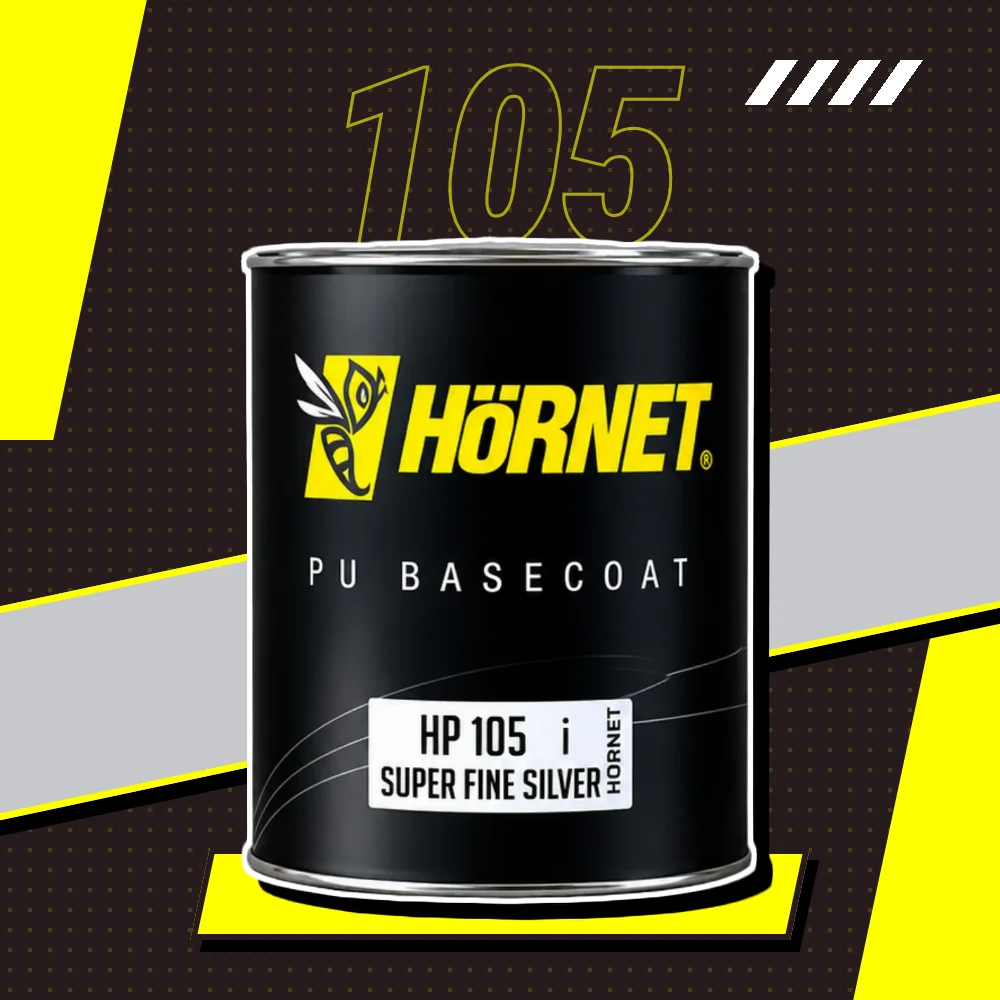
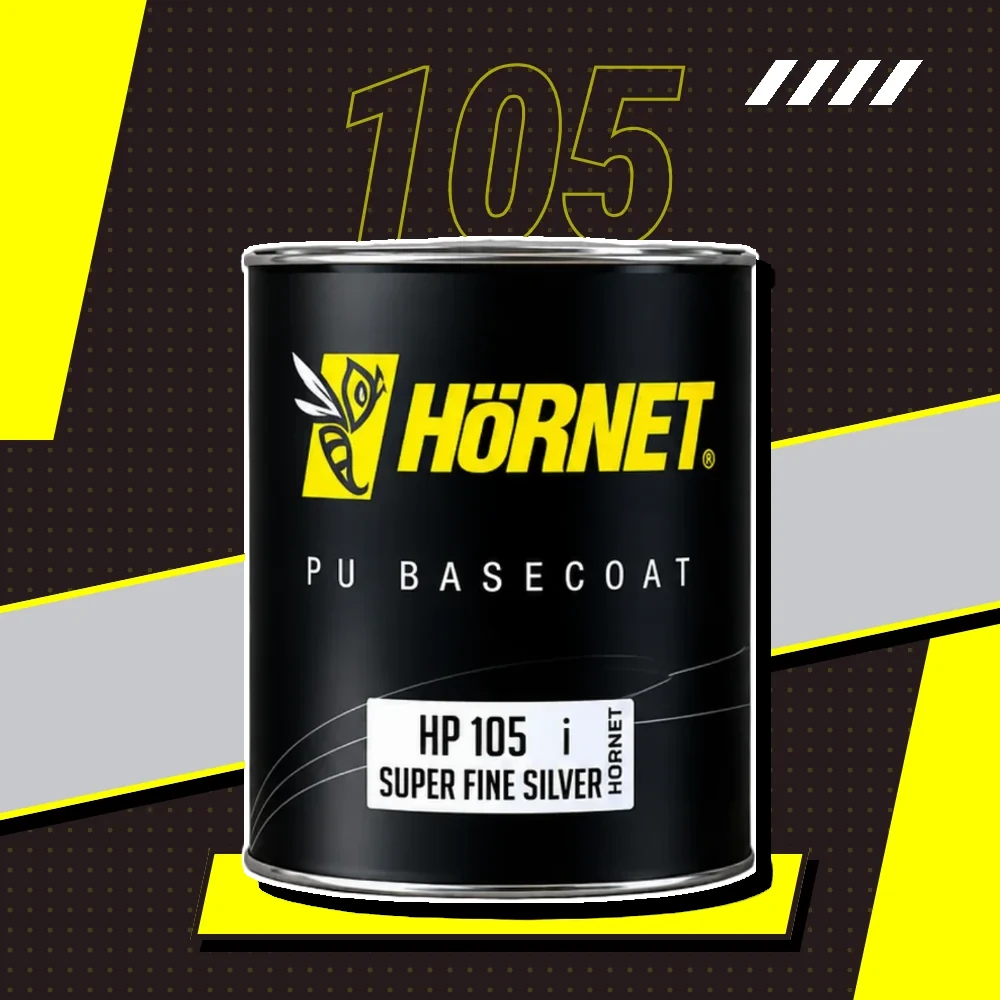
[development][1.24.1] same can size for every Cat PU color
The Cat PU cans were cut from separate studio shots, so each color's can
came out a few pixels wider or taller (501-511 x 658-667 px) and jumped in
size when switching colors on the detail page. Every PU can is now scaled
to one outline box, bottom-centered on the plinth, with its white outline
and hard shadow redrawn. The Cat NC cans already matched.

Claude-Session: https://claude.ai/code/session_01P7H63vv6HAtg1gbggxpW76

diff --git a/CLAUDE.md b/CLAUDE.md
@@ -4,7 +4,7 @@ This file provides guidance to Claude Code (claude.ai/code) when working with co
 
 ## Project
 
-Website for the **Dumons Coating – Hornet lineup** (a sub-product of Dumons Coating), served at `https://hornet.dumonscoating.com/home`. The main Dumons Coating site is a separate Vue project at `C:\Users\hanif\Documents\dumons-netlify` (`https://dumonscoating.com/home`); Hornet uses Roboto Condensed Black Italic for display text (headings, buttons, tags, stickers; closest match to the logo wordmark) and Helvetica (`"Helvetica Neue", Helvetica, Arial, sans-serif`) for body text. The display font is self-hosted (`public/assets/fonts/roboto-condensed-italic-latin.woff2`: variable weight, italic only, latin subset), declared with `@font-face` + preload in `render.tsx`'s `<head>` (not in CSS, so css-loader doesn't try to bundle the url), so every `--font-display` use must also set `font-style: italic`. Brand names are written with umlauts in visible text, "Hörnet" and "Dümons" (URLs, email and social handles stay plain `dumons...`). The site is in Indonesian (`lang="id"`): a landing page (`/home`) and the product catalog (`/produk`, `src/pages/products`: page heading from `page` in `products.json`, every product as a card (1/2/3 columns, a row with fewer products than columns is centered rather than left with a hole), a "Bingung pilih?" band with WhatsApp/Shopee) with a detail page per product (`/produk/<slug>`, `src/pages/product-detail`, prerendered via `getStaticPaths`, unknown slugs render NotFound: square photo (pinned while scrolling from `--large`; stacked below it, capped to fit the screen, and a tap on a swatch scrolls it fully into view when it's cut off, while keyboard picks never scroll) with code sticker and a chip naming the chosen color, a color picker (`colors`: radio buttons drawn as skewed swatches; the chosen color's `image`, else the product's, else a placeholder filled with its `hex`), power meters, "Pesan via WhatsApp" prefilled with product + color, Shopee, then "Produk lainnya"; the picker is hidden when `colors` is empty). Every Shell page has the same site-wide header nav (`SITE_NAV` in `src/components/shell/nav.ts`): each item is a page (`path`, e.g. Produk -> `/produk`, highlighted on it and on pages under it, `aria-current` on the page itself) or a home section (`path` + `section`); Shell renders a section on the current page as a plain `#id` anchor (native smooth scroll) and everything else as a router `Link` (`/home#faq` from another page), home sections hidden while empty drop out, and there is a "Menu" panel below `--large`. Router links don't scroll on their own, so `ScrollToLocation` in `App.tsx` jumps to the top (or to the `#section`) after PUSH/REPLACE navigation and leaves POP (back/forward, first load, plain anchors) to the browser. Home has: a floating WhatsApp button (`src/components/whatsapp-float`: shown after the first screen, hidden while `#kontak` is in view), hero (`hero.lineup`: the transparent cutout of the whole can lineup, `public/assets/hornet-lineup.webp` at the source resolution plus `-800`/`-1200` copies listed in `smaller` and served as `srcSet`, die-cut on a dark poster-style stage with yellow wedges, white slashes, an outlined "HÖRNET" and a yellow plinth, plus a sticker; without `lineup` it falls back to the product named in `hero.productCode` (a code from `products.json`): its `image`, or a hatched placeholder with the hornet mark until set; "Lihat produk" button scrolls to `#produk`), features, trust numbers (`stats`, ink band; PLACEHOLDER figures that must be replaced with real ones before launch; each counts up once on first view via `src/components/count-up`, which server-renders the final value; section hidden when empty), promotions (`promotions`: one poster image per promo, each linking to WhatsApp with its `alt` prefilled; placeholders in `public/assets/promos/` until the real posters exist; any count and any orientation via justified rows sized from each image's `width`/`height` (layout ratio clamped to 9:16..2.2:1, extremes shown whole on a hatched background), never cropped; section hidden when empty; opened by a scrolling ticker and the mascot), highlighted products (`featuredProducts`: exactly two codes, side by side from `--medium`, stacked on phones, then a "Lihat semua produk" button to `/produk`; cards are `src/components/product-card`, shared with `/produk`: a square image canvas (hatched hornet-mark placeholder until `image` is set), code sticker, 1..5 power meters, and a "Lihat detail" link to its detail page; the first product is the real Cat NC (code `NC`, slug `cat-nc`: one product whose 11 `colors` are its models, HS 470 Super White to HS 301 Ferrari Red, each with its own can photo in `public/assets/products/nc/`: the can cut out of its studio shot and rendered 1000x1000 on the dark poster-style stage (yellow wedges, halftone, outlined model number, a skewed band in the paint color, yellow plinth); `cutout.webp` is the transparent HS 470 can), the second is the real Cat PU (code `PU`, slug `cat-pu`: PU basecoat, 25 `colors`: the whites and blacks (HP 912/914/921/922) first, then by code: HP 105..112 silvers, 221..225 yellows, 332..345 reds, 434 orange, 553..557 blues and violet, 661 green, rendered the same way in `public/assets/products/pu/`, `cutout.webp` is the HP 914 can)), customer reviews (`reviews`: quote, name, company, city, year, optional `photo` (initials until set) and `rating` (1..5 stars); any count, placeholders for now; section hidden when empty; carousel in `src/components/reviews`: one per slide on a scroll-snap track (native swipe), arrows + dots (a button/dot/autoplay move sets the index once and scroll events are ignored until the track arrives, so the counter never flickers; a one-slide move scrolls smoothly, a longer jump such as the wrap from last to first fades out, jumps and fades back in), autoplay every 7s that any manual switch stops for 3 minutes, off under `prefers-reduced-motion`; the band is dressed with halftone, a giant outlined quote, twinkling sparkles, chips and a spinning rubber stamp, and each card has a paper stack behind it and a numbered tape strip), results gallery (`results`: surface label, caption, the product code used and an optional `photo` of the coated surface (cropped to fill, hatched placeholder until set); the product's transparent `cutout` (hornet mark until set) stands die-cut on each photo; bento grid with the first tile big (2x2 on three columns, a 16:9 banner on two, plain on phones); the leftover cells of the last row get free-floating ornaments, no tile around them (mascot asking "Giliran mobilmu?", a "Kilau!" sticker on halftone, sparkles, chips), counted per layout in `Home.tsx`, so any count looks complete; section hidden when empty), partner workshops (`partners`, `#mitra`, yellow band: name, city, address, optional `mapsUrl`/`whatsappUrl`; PLACEHOLDERS for now; `src/components/partners` adds city filter chips and shows 9 until "Lihat semua"; "Jadi mitra" button opens WhatsApp with a prefilled message; section hidden when empty), FAQ (`faqs`, `#faq`: questions about the Hörnet line as a whole, since usage steps belong on each product's future detail page; answers marked PLACEHOLDER need real facts; native `<details>` accordion, plus a schema.org `FAQPage` JSON-LD script built from the same list; section hidden when empty), contact CTA (WhatsApp button, "Beli di Shopee" button, and WhatsApp/Shopee/email rows), footer (logo, Instagram and main-site links, copyright). Editable content lives in two JSON files (their `_petunjuk` notes explain editing them, in Indonesian); keep data out of the page components: `src/content/products.json` is the product catalog (`/produk` page copy and `products`, referenced everywhere else by `code`), `src/content/home.json` everything else on `/home` (contacts, hero copy, features, stats, ticker words, promotions, featured product codes, reviews, results, partners, FAQ). `src/content/index.ts` types both (`catalog`, `content`, `productByCode`) and validates them at load (unique codes and slugs, slug and `#rrggbb` formats; every code used in home.json must exist in the catalog): the build uses Babel (no type checking), so a missing/mistyped field throws while prerendering and fails the Netlify build with a message like `src/content/home.json: reviews #2.year harus berupa angka`. Feature icons are keys (`sparkle`/`drop`/`shield`/`spray`) mapped to SVG in `Home.tsx`. `/under-construction` is a standalone holding page (no Shell, English copy) and the only page on Netlify production deploys while `MAINTENANCE_MODE` is on (see Routing).
+Website for the **Dumons Coating – Hornet lineup** (a sub-product of Dumons Coating), served at `https://hornet.dumonscoating.com/home`. The main Dumons Coating site is a separate Vue project at `C:\Users\hanif\Documents\dumons-netlify` (`https://dumonscoating.com/home`); Hornet uses Roboto Condensed Black Italic for display text (headings, buttons, tags, stickers; closest match to the logo wordmark) and Helvetica (`"Helvetica Neue", Helvetica, Arial, sans-serif`) for body text. The display font is self-hosted (`public/assets/fonts/roboto-condensed-italic-latin.woff2`: variable weight, italic only, latin subset), declared with `@font-face` + preload in `render.tsx`'s `<head>` (not in CSS, so css-loader doesn't try to bundle the url), so every `--font-display` use must also set `font-style: italic`. Brand names are written with umlauts in visible text, "Hörnet" and "Dümons" (URLs, email and social handles stay plain `dumons...`). The site is in Indonesian (`lang="id"`): a landing page (`/home`) and the product catalog (`/produk`, `src/pages/products`: page heading from `page` in `products.json`, every product as a card (1/2/3 columns, a row with fewer products than columns is centered rather than left with a hole), a "Bingung pilih?" band with WhatsApp/Shopee) with a detail page per product (`/produk/<slug>`, `src/pages/product-detail`, prerendered via `getStaticPaths`, unknown slugs render NotFound: square photo (pinned while scrolling from `--large`; stacked below it, capped to fit the screen, and a tap on a swatch scrolls it fully into view when it's cut off, while keyboard picks never scroll) with code sticker and a chip naming the chosen color, a color picker (`colors`: radio buttons drawn as skewed swatches; the chosen color's `image`, else the product's, else a placeholder filled with its `hex`), power meters, "Pesan via WhatsApp" prefilled with product + color, Shopee, then "Produk lainnya"; the picker is hidden when `colors` is empty). Every Shell page has the same site-wide header nav (`SITE_NAV` in `src/components/shell/nav.ts`): each item is a page (`path`, e.g. Produk -> `/produk`, highlighted on it and on pages under it, `aria-current` on the page itself) or a home section (`path` + `section`); Shell renders a section on the current page as a plain `#id` anchor (native smooth scroll) and everything else as a router `Link` (`/home#faq` from another page), home sections hidden while empty drop out, and there is a "Menu" panel below `--large`. Router links don't scroll on their own, so `ScrollToLocation` in `App.tsx` jumps to the top (or to the `#section`) after PUSH/REPLACE navigation and leaves POP (back/forward, first load, plain anchors) to the browser. Home has: a floating WhatsApp button (`src/components/whatsapp-float`: shown after the first screen, hidden while `#kontak` is in view), hero (`hero.lineup`: the transparent cutout of the whole can lineup, `public/assets/hornet-lineup.webp` at the source resolution plus `-800`/`-1200` copies listed in `smaller` and served as `srcSet`, die-cut on a dark poster-style stage with yellow wedges, white slashes, an outlined "HÖRNET" and a yellow plinth, plus a sticker; without `lineup` it falls back to the product named in `hero.productCode` (a code from `products.json`): its `image`, or a hatched placeholder with the hornet mark until set; "Lihat produk" button scrolls to `#produk`), features, trust numbers (`stats`, ink band; PLACEHOLDER figures that must be replaced with real ones before launch; each counts up once on first view via `src/components/count-up`, which server-renders the final value; section hidden when empty), promotions (`promotions`: one poster image per promo, each linking to WhatsApp with its `alt` prefilled; placeholders in `public/assets/promos/` until the real posters exist; any count and any orientation via justified rows sized from each image's `width`/`height` (layout ratio clamped to 9:16..2.2:1, extremes shown whole on a hatched background), never cropped; section hidden when empty; opened by a scrolling ticker and the mascot), highlighted products (`featuredProducts`: exactly two codes, side by side from `--medium`, stacked on phones, then a "Lihat semua produk" button to `/produk`; cards are `src/components/product-card`, shared with `/produk`: a square image canvas (hatched hornet-mark placeholder until `image` is set), code sticker, 1..5 power meters, and a "Lihat detail" link to its detail page; the first product is the real Cat NC (code `NC`, slug `cat-nc`: one product whose 11 `colors` are its models, HS 470 Super White to HS 301 Ferrari Red, each with its own can photo in `public/assets/products/nc/`: the can cut out of its studio shot and rendered 1000x1000 on the dark poster-style stage (yellow wedges, halftone, outlined model number, a skewed band in the paint color, yellow plinth); `cutout.webp` is the transparent HS 470 can), the second is the real Cat PU (code `PU`, slug `cat-pu`: PU basecoat, 25 `colors`: the whites and blacks (HP 912/914/921/922) first, then by code: HP 105..112 silvers, 221..225 yellows, 332..345 reds, 434 orange, 553..557 blues and violet, 661 green, rendered the same way in `public/assets/products/pu/`; within a product every color's can has the same size and spot on the stage, so switching colors never resizes it; `cutout.webp` is the HP 914 can)), customer reviews (`reviews`: quote, name, company, city, year, optional `photo` (initials until set) and `rating` (1..5 stars); any count, placeholders for now; section hidden when empty; carousel in `src/components/reviews`: one per slide on a scroll-snap track (native swipe), arrows + dots (a button/dot/autoplay move sets the index once and scroll events are ignored until the track arrives, so the counter never flickers; a one-slide move scrolls smoothly, a longer jump such as the wrap from last to first fades out, jumps and fades back in), autoplay every 7s that any manual switch stops for 3 minutes, off under `prefers-reduced-motion`; the band is dressed with halftone, a giant outlined quote, twinkling sparkles, chips and a spinning rubber stamp, and each card has a paper stack behind it and a numbered tape strip), results gallery (`results`: surface label, caption, the product code used and an optional `photo` of the coated surface (cropped to fill, hatched placeholder until set); the product's transparent `cutout` (hornet mark until set) stands die-cut on each photo; bento grid with the first tile big (2x2 on three columns, a 16:9 banner on two, plain on phones); the leftover cells of the last row get free-floating ornaments, no tile around them (mascot asking "Giliran mobilmu?", a "Kilau!" sticker on halftone, sparkles, chips), counted per layout in `Home.tsx`, so any count looks complete; section hidden when empty), partner workshops (`partners`, `#mitra`, yellow band: name, city, address, optional `mapsUrl`/`whatsappUrl`; PLACEHOLDERS for now; `src/components/partners` adds city filter chips and shows 9 until "Lihat semua"; "Jadi mitra" button opens WhatsApp with a prefilled message; section hidden when empty), FAQ (`faqs`, `#faq`: questions about the Hörnet line as a whole, since usage steps belong on each product's future detail page; answers marked PLACEHOLDER need real facts; native `<details>` accordion, plus a schema.org `FAQPage` JSON-LD script built from the same list; section hidden when empty), contact CTA (WhatsApp button, "Beli di Shopee" button, and WhatsApp/Shopee/email rows), footer (logo, Instagram and main-site links, copyright). Editable content lives in two JSON files (their `_petunjuk` notes explain editing them, in Indonesian); keep data out of the page components: `src/content/products.json` is the product catalog (`/produk` page copy and `products`, referenced everywhere else by `code`), `src/content/home.json` everything else on `/home` (contacts, hero copy, features, stats, ticker words, promotions, featured product codes, reviews, results, partners, FAQ). `src/content/index.ts` types both (`catalog`, `content`, `productByCode`) and validates them at load (unique codes and slugs, slug and `#rrggbb` formats; every code used in home.json must exist in the catalog): the build uses Babel (no type checking), so a missing/mistyped field throws while prerendering and fails the Netlify build with a message like `src/content/home.json: reviews #2.year harus berupa angka`. Feature icons are keys (`sparkle`/`drop`/`shield`/`spray`) mapped to SVG in `Home.tsx`. `/under-construction` is a standalone holding page (no Shell, English copy) and the only page on Netlify production deploys while `MAINTENANCE_MODE` is on (see Routing).
 
 **There is no backend.** Production is a static site on Netlify (prerendered at build time); Express is only used for local dev/`npm start`. Don't add an `/api` proxy, API client, or data-fetching/store layer unless asked.
 
